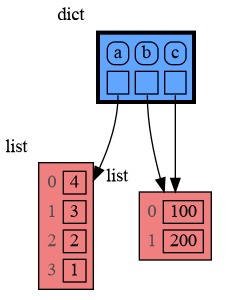
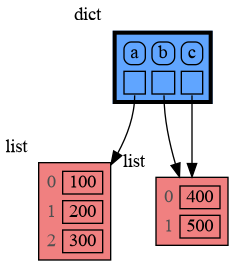
update

Changed region(s): [[0.1542, 0.0, 0.9559, 0.9742], [0.0, 0.4428, 0.1233, 0.5904]]

diff --git a/images/name_rebinding.py b/images/name_rebinding.py
@@ -1,13 +1,13 @@
 import memory_graph as mg
 
-a = [4, 3, 2]
+a = [100, 200]
 b = a
 mg.render(locals(), 'rebinding1.png')
 
-b += [1]        # changes value of 'b' and 'a'
-b = [100, 200]  # rebinds 'b' to a new value, 'a' is uneffected
+b += [300]      # changes value of 'b' and 'a'
+b = [400, 500]  # rebinds 'b' to a new value, 'a' is uneffected
 c = b
 mg.render(locals(), 'rebinding2.png')
 
-c = b + [300]   # rebinds 'c' to new value 'b + [300]', `b` is unaffected
+c = b + [600]   # rebinds 'c' to new value 'b + [600]', `b` is unaffected
 mg.render(locals(), 'rebinding3.png')

diff --git a/src/rebind.py b/src/rebind.py
@@ -1,10 +1,10 @@
-a = [4, 3, 2]
+a = [100, 200]
 b = a
 
-b += [1]        # changes the value of 'b' and 'a'
-b = [100, 200]  # rebinds 'b' to a new value, 'a' is unaffected
+b += [300]      # changes the value of 'b' and 'a'
+b = [400, 500]  # rebinds 'b' to a new value, 'a' is unaffected
 c = b
 
-c = b + [300]   # rebinds 'c' to new value 'b + [300]', `b` is unaffected
+c = b + [600]   # rebinds 'c' to new value 'b + [600]', `b` is unaffected
 
 print(f'{a=}\n{b=}\n{c=}')

diff --git a/README.md b/README.md
@@ -258,16 +258,16 @@ Also note the difference between statement `b += [1]` that changes `b` and `a`, 
 ```python
 import memory_graph as mg
 
-a = [4, 3, 2]
+a = [100, 200]
 b = a
 mg.render(locals(), 'rebinding1.png')
 
-b += [1]        # changes the value of 'b' and 'a'
-b = [100, 200]  # rebinds 'b' to a new value, 'a' is unaffected
+b += [300]      # changes the value of 'b' and 'a'
+b = [400, 500]  # rebinds 'b' to a new value, 'a' is unaffected
 c = b
 mg.render(locals(), 'rebinding2.png')
 
-c = b + [300]   # rebinds 'c' to new value 'b + [300]', `b` is unaffected
+c = b + [600]   # rebinds 'c' to new value 'b + [600]', `b` is unaffected
 mg.render(locals(), 'rebinding3.png')
 ```
 | ![rebinding1.png](https://raw.githubusercontent.com/bterwijn/memory_graph/main/images/rebinding1.png) | ![rebinding2.png](https://raw.githubusercontent.com/bterwijn/memory_graph/main/images/rebinding2.png) | ![rebinding3.png](https://raw.githubusercontent.com/bterwijn/memory_graph/main/images/rebinding3.png) |
